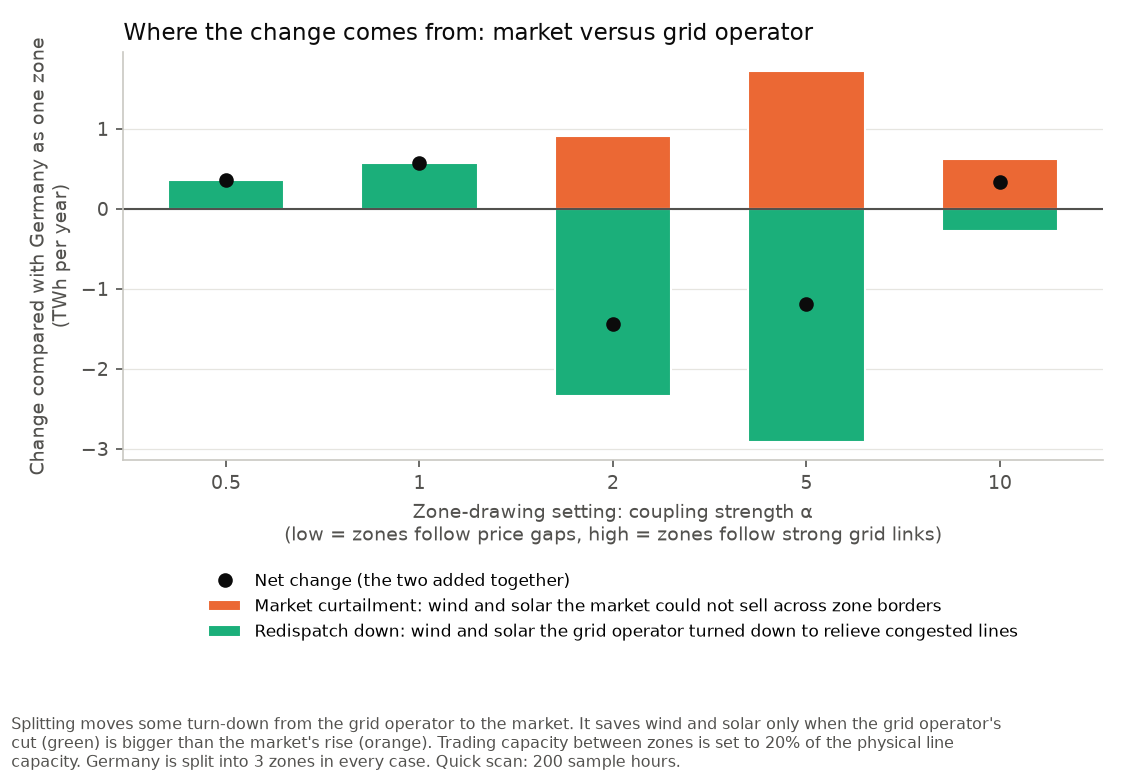
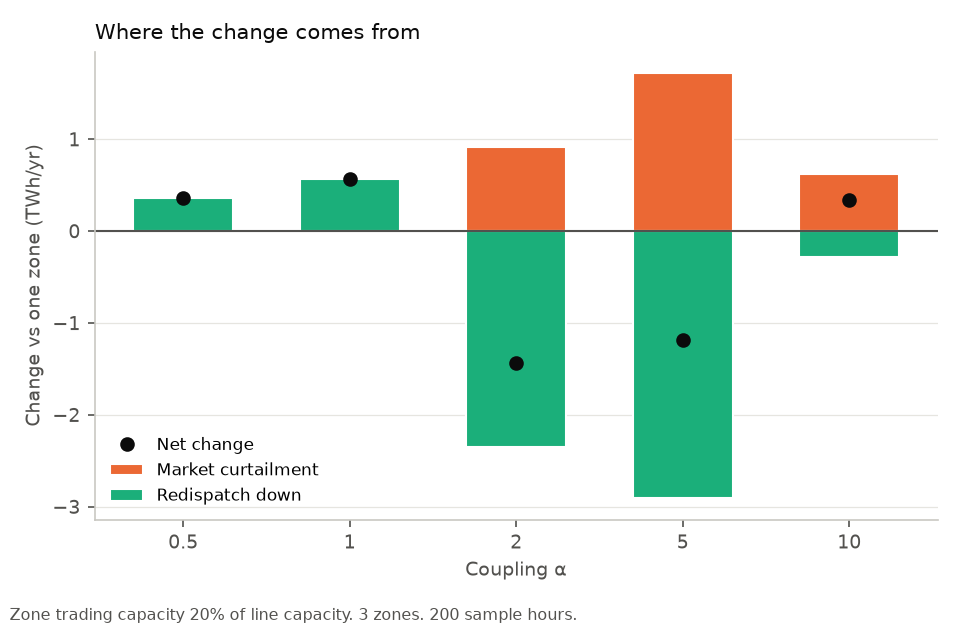
Validate scan: shorter derating-0.2 figures, out-of-sample point removed
Claude-Session: https://claude.ai/code/session_01Xq5TRT6MZ78NDn6YnSkUQb

diff --git a/bidding_zones/bzgen/validate/scan.py b/bidding_zones/bzgen/validate/scan.py
@@ -179,71 +179,50 @@ def _clean(ax):
 
 
 def readable_panels(df: pd.DataFrame, der: float, tag: str) -> list:
-    """The derating panel as two stand-alone figures with plain-language labels."""
+    """The derating panel as two short, stand-alone figures."""
     d = df[np.isclose(df.derating, der)].sort_values("alpha").copy()
     d["pct"] = 100 * d.dDD_RES_GWh / d.DD_k1_GWh
-    _, oos = derating_panel(df, der, tag)
     x = np.arange(len(d))
     lab = [f"{a:g}" for a in d.alpha]
-    xl = "Zone-drawing setting: coupling strength α\n(low = zones follow price gaps, high = zones follow strong grid links)"
-    cap_trade = (f"Trading capacity between zones is set to {der:.0%} of the physical line capacity. "
-                 "Germany is split into 3 zones in every case.")
+    note = f"Zone trading capacity {der:.0%} of line capacity. 3 zones. 200 sample hours."
     out = []
 
-    fig, ax = plt.subplots(figsize=(7.5, 5.2))
-    ax.bar(x, d.dDD_RES_GWh / 1e3, 0.6, color="#2a78d6", edgecolor="white",
-           label="Quick scan: 200 sample hours, map drawn from the same year")
-    for xi, v, pc in zip(x, d.dDD_RES_GWh / 1e3, d.pct):
-        ax.text(xi, v + (0.05 if v >= 0 else -0.05), f"{v:+.1f} TWh\n({pc:+.0f}%)", ha="center",
-                va="bottom" if v >= 0 else "top", fontsize=8, color="#0b0b0b")
-    if oos is not None and oos["alpha"] in list(d.alpha):
-        i = list(d.alpha).index(oos["alpha"])
-        ax.errorbar(i + 0.38, oos["dDD_RES_GWh"] / 1e3,
-                    yerr=[[(oos["dDD_RES_GWh"] - oos["dDD_RES_lo"]) / 1e3],
-                          [(oos["dDD_RES_hi"] - oos["dDD_RES_GWh"]) / 1e3]],
-                    fmt="o", color="#eb6834", ms=7, capsize=4, lw=2,
-                    label="Proper test: map drawn on half the year, tested on the other half\n(with 95% uncertainty range)")
+    fig, ax = plt.subplots(figsize=(6.4, 4.2))
+    v = d.dDD_RES_GWh.to_numpy() / 1e3
+    ax.bar(x, v, 0.6, color="#2a78d6", edgecolor="white")
+    for xi, vi, pc in zip(x, v, d.pct):
+        ax.text(xi, vi + (0.05 if vi >= 0 else -0.05), f"{vi:+.1f} TWh\n({pc:+.0f}%)", ha="center",
+                va="bottom" if vi >= 0 else "top", fontsize=8, color="#0b0b0b")
     ax.axhline(0, color="#52514e", lw=1)
     lo, hi = ax.get_ylim()
-    ax.set_ylim(lo - 0.2 * (hi - lo), hi + 0.1 * (hi - lo))
+    ax.set_ylim(lo - 0.15 * (hi - lo), hi + 0.12 * (hi - lo))
     ax.set_xticks(x, lab)
-    ax.set_xlabel(xl, fontsize=9, color="#52514e")
-    ax.set_ylabel("Change in wind and solar turned down\n(TWh per year, split minus single zone)",
-                  fontsize=9, color="#52514e")
-    ax.set_title("Does splitting Germany into 3 bidding zones waste less wind and solar?",
-                 fontsize=11, color="#0b0b0b", loc="left")
+    ax.set_xlabel("Coupling α", fontsize=9, color="#52514e")
+    ax.set_ylabel("Change in curtailed wind + solar (TWh/yr)", fontsize=9, color="#52514e")
+    ax.set_title("Splitting DE vs one zone (below 0 = less curtailment)", fontsize=10,
+                 color="#0b0b0b", loc="left")
     _clean(ax)
-    ax.legend(fontsize=8, frameon=False, loc="upper center", bbox_to_anchor=(0.5, -0.24))
-    fig.text(0.01, 0.01, textwrap.fill(
-        "Below zero = less wind and solar turned down than with Germany as one zone. " + cap_trade
-        + " Exploratory: settings were searched, so the quick-scan reductions may be chance; "
-        "the proper test is the one to trust.", 125), fontsize=7.5, color="#52514e", va="bottom")
-    fig.tight_layout(rect=(0, 0.08, 1, 1))
+    fig.text(0.01, 0.01, note, fontsize=7.5, color="#52514e", va="bottom")
+    fig.tight_layout(rect=(0, 0.04, 1, 1))
     f1 = ROOT / "figures" / "validate" / f"readable_dd_change_d{der:g}.png"
     fig.savefig(f1, dpi=150)
     plt.close(fig)
     out.append(f1)
 
-    fig, ax = plt.subplots(figsize=(7.5, 5.2))
+    fig, ax = plt.subplots(figsize=(6.4, 4.2))
     sp, rd = d.dSpill_market_GWh.to_numpy() / 1e3, d.dRedispatch_down_res_GWh.to_numpy() / 1e3
-    ax.bar(x, sp, 0.6, color="#eb6834", edgecolor="white",
-           label="Market curtailment: wind and solar the market could not sell across zone borders")
-    ax.bar(x, rd, 0.6, color="#1baf7a", edgecolor="white",
-           label="Redispatch down: wind and solar the grid operator turned down to relieve congested lines")
-    ax.plot(x, sp + rd, "o", color="#0b0b0b", ms=6, label="Net change (the two added together)")
+    ax.bar(x, sp, 0.6, color="#eb6834", edgecolor="white", label="Market curtailment")
+    ax.bar(x, rd, 0.6, color="#1baf7a", edgecolor="white", label="Redispatch down")
+    ax.plot(x, sp + rd, "o", color="#0b0b0b", ms=6, label="Net change")
     ax.axhline(0, color="#52514e", lw=1)
     ax.set_xticks(x, lab)
-    ax.set_xlabel(xl, fontsize=9, color="#52514e")
-    ax.set_ylabel("Change compared with Germany as one zone\n(TWh per year)", fontsize=9, color="#52514e")
-    ax.set_title("Where the change comes from: market versus grid operator",
-                 fontsize=11, color="#0b0b0b", loc="left")
+    ax.set_xlabel("Coupling α", fontsize=9, color="#52514e")
+    ax.set_ylabel("Change vs one zone (TWh/yr)", fontsize=9, color="#52514e")
+    ax.set_title("Where the change comes from", fontsize=10, color="#0b0b0b", loc="left")
     _clean(ax)
-    ax.legend(fontsize=8, frameon=False, loc="upper center", bbox_to_anchor=(0.5, -0.24))
-    fig.text(0.01, 0.01, textwrap.fill(
-        "Splitting moves some turn-down from the grid operator to the market. It saves wind and "
-        "solar only when the grid operator's cut (green) is bigger than the market's rise (orange). "
-        + cap_trade + " Quick scan: 200 sample hours.", 125), fontsize=7.5, color="#52514e", va="bottom")
-    fig.tight_layout(rect=(0, 0.08, 1, 1))
+    ax.legend(fontsize=8, frameon=False, loc="lower left")
+    fig.text(0.01, 0.01, note, fontsize=7.5, color="#52514e", va="bottom")
+    fig.tight_layout(rect=(0, 0.04, 1, 1))
     f2 = ROOT / "figures" / "validate" / f"readable_dd_sources_d{der:g}.png"
     fig.savefig(f2, dpi=150)
     plt.close(fig)
